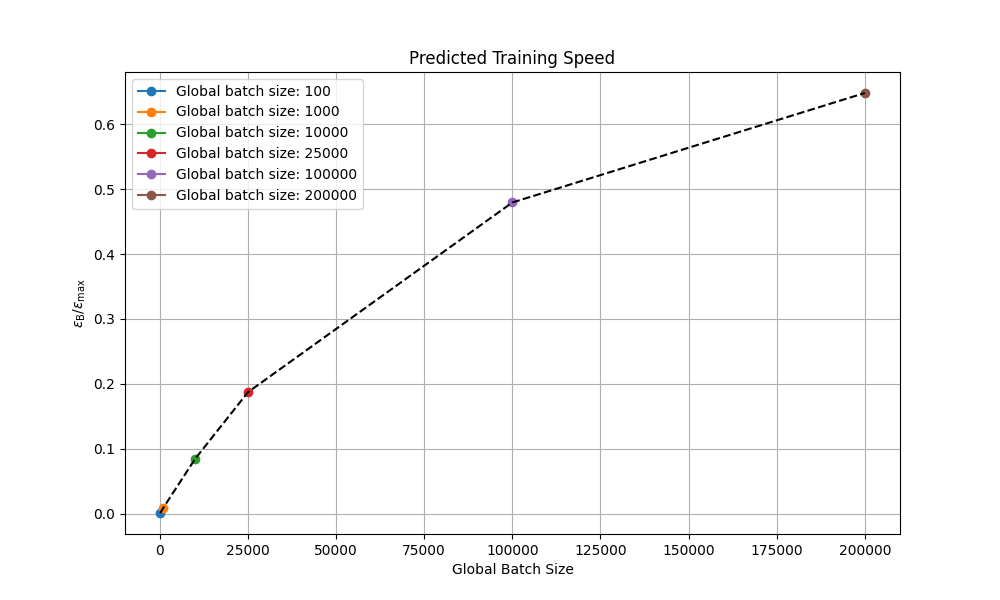
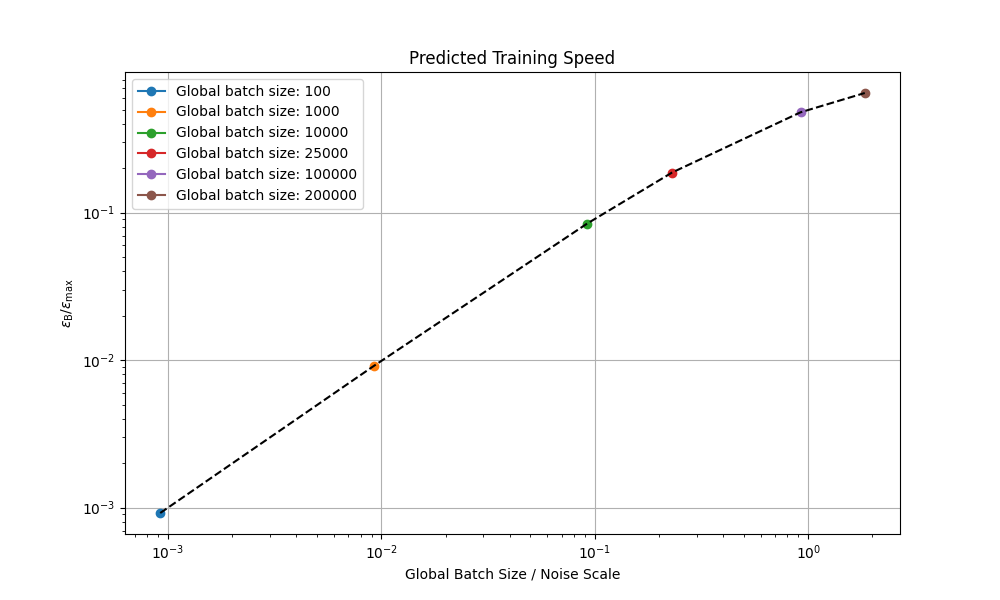
predicted scaling global bs plot fixed

diff --git a/src/plot_scaling_laws.py b/src/plot_scaling_laws.py
@@ -325,7 +325,7 @@ for batch_size, params, hist in total_global_batch_results:
 
     
     avg_noise_scale = 108600.0 # from critical bs plot
-    x_axis = batch_size
+    x_axis = batch_size / avg_noise_scale
     y_axis = 1 / (1 + (avg_noise_scale / batch_size))
     x_vals.append(x_axis)
     y_vals.append(y_axis)
@@ -333,8 +333,10 @@ for batch_size, params, hist in total_global_batch_results:
     ax.plot(x_axis, y_axis, marker='o', label=f"Global batch size: {batch_size}")
 
 ax.plot(x_vals, y_vals, linestyle='--', color='black')
-ax.set_xlabel("Global Batch Size")
+ax.set_xlabel("Global Batch Size / Noise Scale")
 ax.set_ylabel(fr"${{\epsilon_\text{{B}}}} / {{\epsilon_\text{{max}}}}$")
+ax.set_yscale('log')
+ax.set_xscale('log')
 ax.set_title("Predicted Training Speed")
 ax.legend()
 ax.grid(True)
